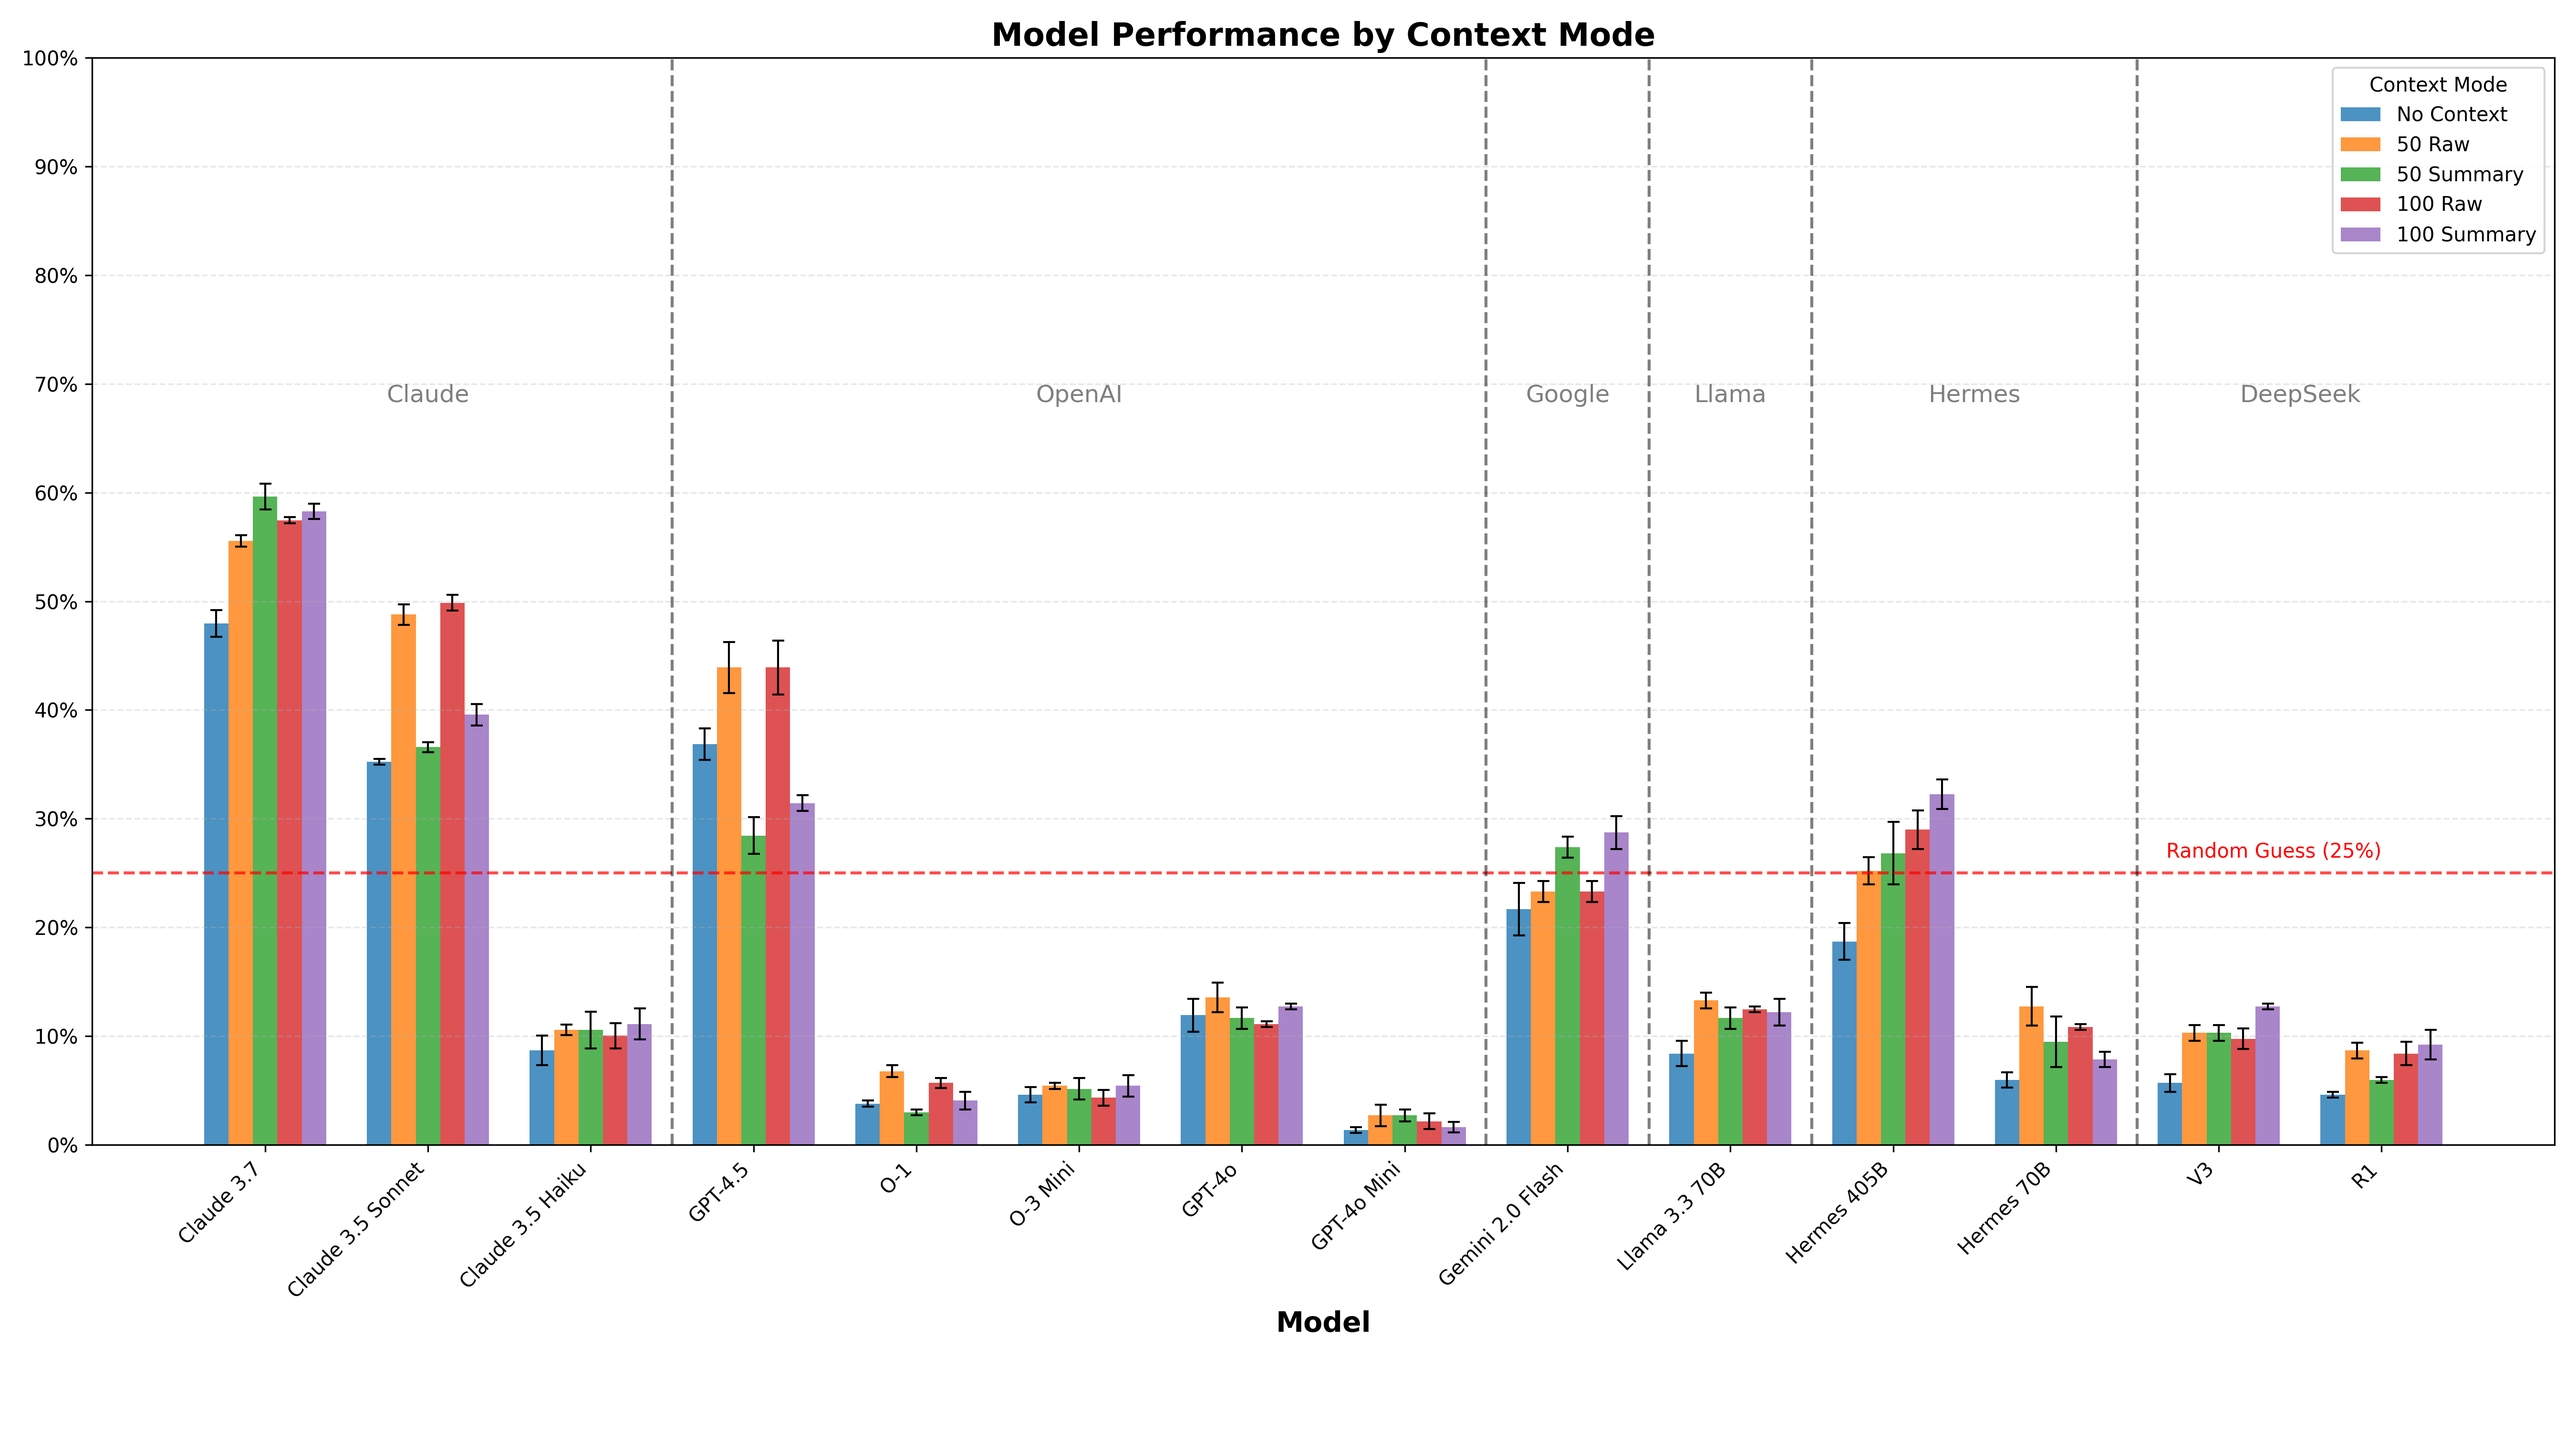
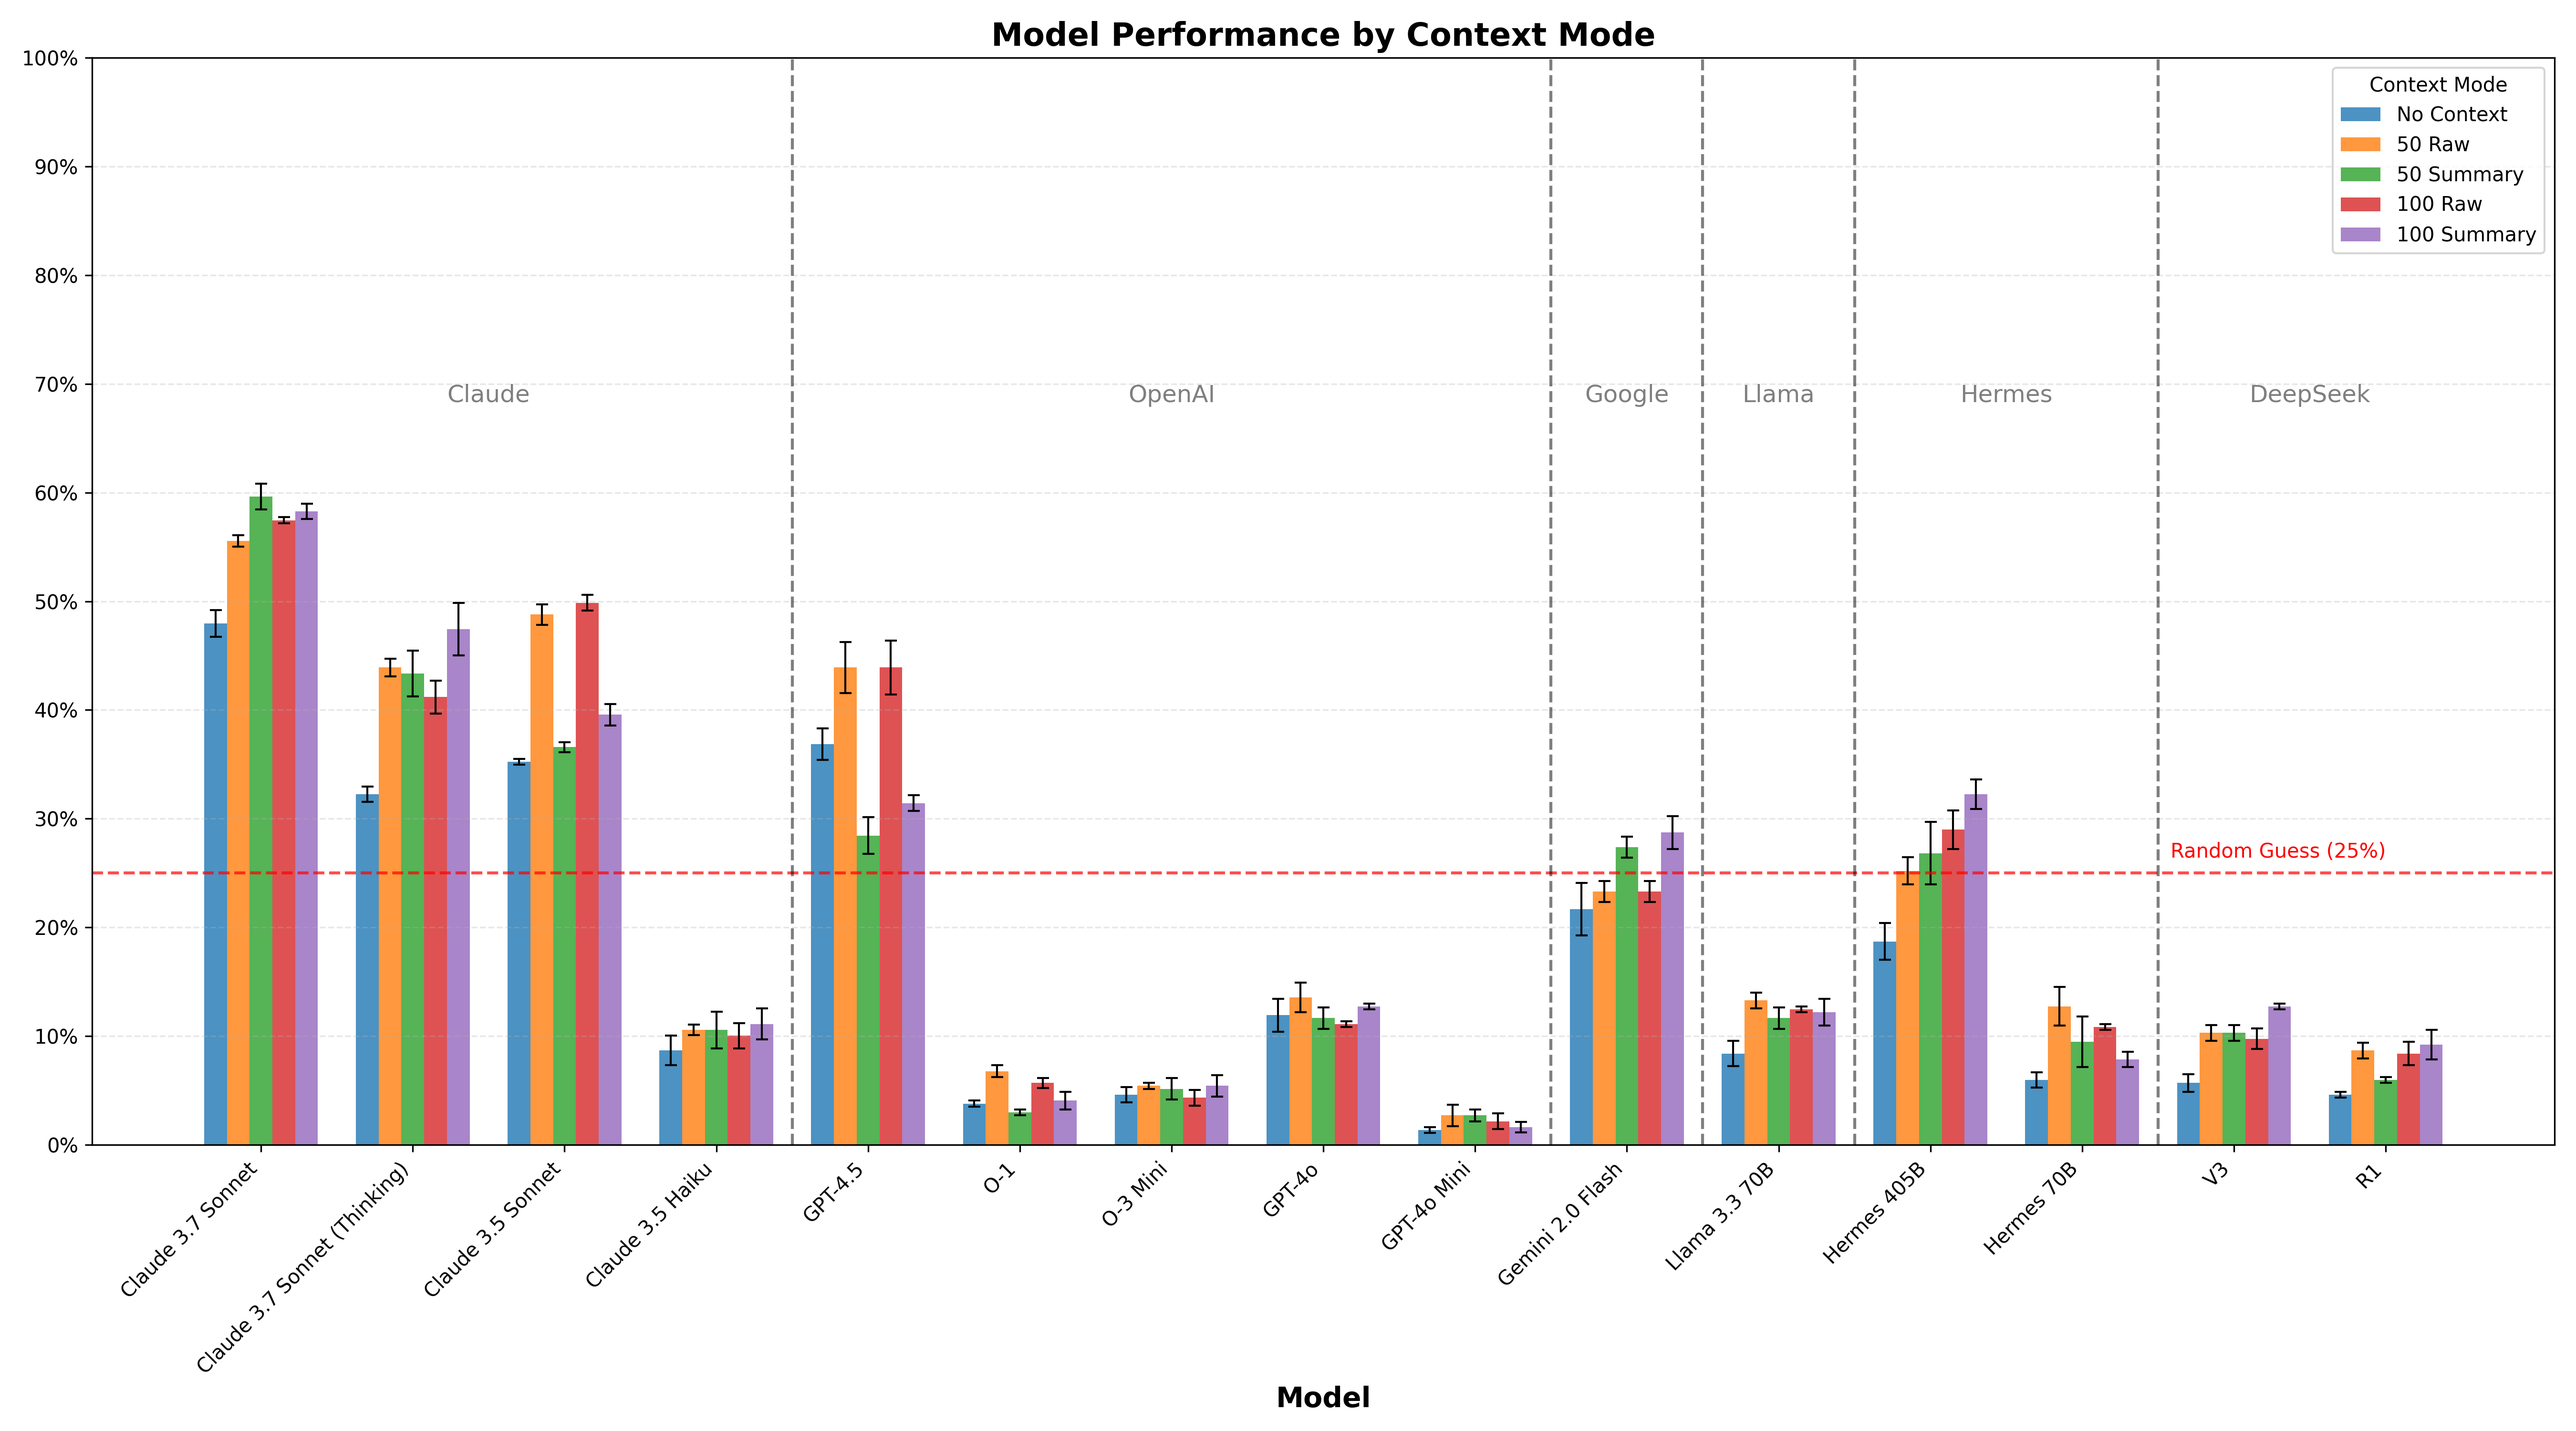
Add 3.7 thinking

diff --git a/generate_plot.py b/generate_plot.py
@@ -8,7 +8,9 @@ results_folders = [
     'output/FINAL-grid_experiment_20250227_234520',
     'output/FINAL-grid_experiment_20250228_000836',
     'output/FINAL-grid_experiment_20250228_114923',
-    'output/grid_experiment_20250228_114847'
+    'output/FINAL-grid_experiment_20250228_114847',
+    'output/FINAL-grid_experiment_20250303_123204',
+    'output/FINAL-grid_experiment_20250303_123131'
 ]
                    
 results_files = []
@@ -61,7 +63,7 @@ grouped_stats['stderr'] = grouped_stats['std'] / np.sqrt(grouped_stats['count'])
 
 # Define model families for grouping
 model_families = {
-    'Claude': ['claude-3-7-sonnet-20250219', 'claude-3-5-sonnet-20241022', 'claude-3-5-haiku-latest'],
+    'Claude': ['claude-3-7-sonnet-20250219', 'claude-3-7-sonnet-20250219-thinking', 'claude-3-5-sonnet-20241022', 'claude-3-5-haiku-latest'],
     'OpenAI': ['gpt-4.5-preview-2025-02-27', 'o1', 'o3-mini', 'gpt-4o', 'gpt-4o-mini'],
     'Google': ['gemini-2.0-flash'],
     'Llama': ['meta-llama/llama-3.3-70b-instruct'],
@@ -80,7 +82,8 @@ grouped_stats['model_family'] = grouped_stats['model'].apply(get_model_family)
 
 # Shortened model names for display
 model_display_names = {
-    'claude-3-7-sonnet-20250219': 'Claude 3.7',
+    'claude-3-7-sonnet-20250219-thinking': 'Claude 3.7 Sonnet (Thinking)',
+    'claude-3-7-sonnet-20250219': 'Claude 3.7 Sonnet',
     'claude-3-5-sonnet-20241022': 'Claude 3.5 Sonnet',
     'claude-3-5-haiku-latest': 'Claude 3.5 Haiku',
     'gpt-4o': 'GPT-4o',
